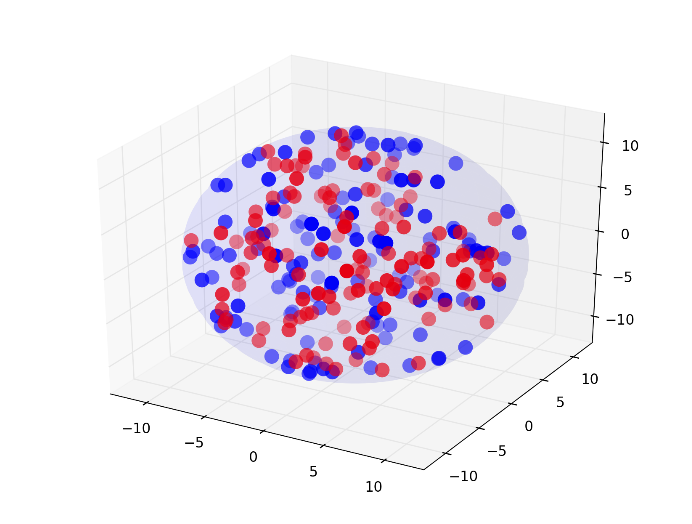
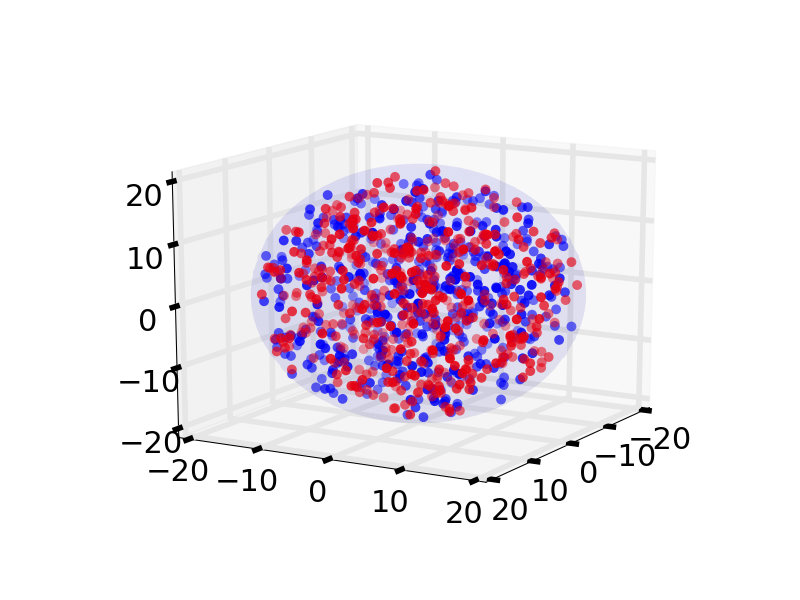
Semi-final

diff --git a/CapstoneII/Paper/KolbmanCapII.tex b/CapstoneII/Paper/KolbmanCapII.tex
@@ -27,12 +27,13 @@ Differential Cell Adhesion and Elasticity}
 \date{\today}
 
 \begin{abstract} \noindent The biophysics of cell co-cultures, i.e. a binary system of cell populations, is of great interest in many biological processes including formation of embryos, and tumor progression. 
-During these processes, different types of cells with different physical properties are mixed with each other, with important consequences for cell-cell interaction, aggregation, and migration. 
-Until recently, experiments and theoretical models of cell co-cultures have focused on two dimensional systems. Under physiological conditions, however, cells often have to  
-navigate three dimensional and confined micro environments. We will model such cell co-culture systems by extending previous two-dimensional Brownian Dynamics simulation of a binary system of interacting, 
-active, and deformable particles to a confined three-dimensional system. Our results will be compared with ongoing experiments done by our collaborators. Our results may 
-provide insights into the role of the difference in physical properties such as cell elasticity, cell-cell adhesion, and cell self-propulsion speeds of two cell types in emergent collective properties 
-such as cell aggregation and differential migration experimentally observed in co-cultures of breast cancer cells and healthy breast epithelial cells.  
+During these processes, different types of cells with different physical properties are mixed with each other, with important consequences for cell-cell interaction, aggregation, and migration. The role of the differences
+in their physical properties in their collective behavior remains poorly understood. Furthermore, until recently, experiments and theoretical models of collective cell migration 
+have focused on two dimensional systems. Under physiological conditions, however, cells often have to  
+navigate three dimensional and confined micro environments. We will model cell co-culture systems by extending previous two-dimensional Brownian Dynamics simulation of a binary system of interacting, 
+active, and deformable particles to a confined three-dimensional system. We compare our results with experiments done by our experimental collaborators. Our findings may 
+provide insights into how the differences in cells' physical properties such as elasticity, propensity for cell-cell adhesion, and self-propulsion speeds of two cell types influence 
+emergent collective properties such as cell aggregation and differential migration experimentally observed in co-cultures of breast cancer cells and healthy breast epithelial cells.  
 
 \end{abstract}
 
@@ -53,10 +54,10 @@ cell population \cite{Lee}.
 Until recently, most experiments and models of cell co-cultures have focused on two dimensional systems, with limited application to physiological conditions\cite{Jong}.
 Recently, new techniques for observing co-cultures in three dimensions have become available\cite{Alessandri}.  Accordingly, we seek to formulate a minimal
 model of co-culture cell mechanics in three dimensions by extending previous two dimensional simulations of binary systems of deformable and active colloids\cite{Butcher}.
-Using an integrated modeling and experimental approach, we aim to characterize the role of difference in physical properties such as cell stiffness, cell-cell adhesion,
+Using an integrated modeling and experimental approach, we aim to characterize the role of differences in physical properties such as cell stiffness, cell-cell adhesion,
 and self-propulsion in  aggregation and migration in co-cultures of breast cancer cells and non-cancerous cells in three dimensions.
-Furthermore, we will focus on confined systems to better recreate the physiological and experimental systems we are studying.
-From a physics perspective, we will study the interplay of cell mechanics, and statistical mechanical in cell migration in a confined binary system in three dimensions.
+Furthermore, we  focus on confined systems to better recreate the physiological and experimental systems we are studying.
+From a physics perspective, we  study the interplay of cell mechanics, and statistical mechanical in cell migration in a confined binary system in three dimensions.
 The main ingredients of the model are discussed below.\\
 
 
@@ -83,8 +84,8 @@ Recent experiments show increased migration rates of cells in three-dimensional 
 
 Ongoing experiments in the laboratories of our collaborators Dr. M. Wu and Dr. M. Ma involve observing co-cultures inside spherical capsules with diameters of the order of several hundred micro-meters 
 and containing hundreds of cells\cite{Alessandri} (See FIG. \ref{fig:capsule}). Given that confinement and finite system size can have important consequences for the statistical mechanics and collective 
-properties of the cell-culture, it will be vital to account for them in our model. The spherical capsules in the experiments we will model have an inner diameter of $50-700$ micro-meters and an outer diameter of $400-7000$ micro-meters.
-The cells are present inside the inner capsule and have a dimensions of the order of $\sim 10$ micro-meters. The region between the inner and outer diameters is occupied by a dense gel layer that the cells can not penetrate.
+properties of the cell-culture, it is be vital to account for them in our model. The spherical capsules in the experiments we will model have an inner diameter of $50-700$ micro-meters and an outer diameter of $400-7000$ micro-meters \cite{Mingming}.
+The cells are present inside the inner capsule and have a dimensions of the order of $\sim 10$ micro-meters\cite{Mingming}. The region between the inner and outer diameters is occupied by a dense gel layer that the cells can not penetrate.
 The outside of this layer is coated such that cells will not adhere to this layer upon contact. \\
 
 \begin{figure}
@@ -101,28 +102,43 @@ The outside of this layer is coated such that cells will not adhere to this laye
 \begin{figure}
   \includegraphics[width=1.0\columnwidth]{images/3dconf.png}
   \caption[3dconf]
-    {A sample configuration of a confined three dimensional co-culture system.}
+    {A sample initial configuration of a confined three dimensional co-culture system. The blue spheres represent the cancer cells, and the red spheres represent the healthy cells
+    (this color scheme is followed throughout this paper). Note that the two cell types are randomly and isotropically distributed. The two types of cells are of the same size, and the sizes are not shown
+    to scale in the figure.}
    \label{fig:3dconf}
 \end{figure}
 
-We study the collective dynamics of this system using an active Brownian Dynamics simulation. Brownian dynamics is ideal for this system as cells behave like Brownian particles: 
-their dimensions and timescale of motion are much larger than that of the particles of the surrounding medium in which they are suspended and in equilibrium  their motion is diffusive. In addition
+We study the collective dynamics of this system using an active Brownian Dynamics simulation. Brownian dynamics is ideal for this system as cells behave like Brownian particles: their dimensions and timescale of motion are much larger than that of the particles of the surrounding medium in which they are suspended and in equilibrium  their motion is diffusive. In addition
 our system is ``active" because cells can generate forces by consuming ATP and propel themselves. A simple model of homogeneous monolayers of such active particles consists
 of a two dimensional system of interacting colloidal particles that are also each active, i.e. self-driven \cite{FilyMarchetti,RednerBaskaran}. 
-Such models have been previously used to study swarming  behavior \cite{Vicsek} in birds, inspections and fish. Our group has recently combined this approach with cell 
-mechanics and applied it to a binary population of cells, to study the collective mechanics and dynamics in cell co-cultures characterized by a difference in cell stiffness.
+Such models have been previously used to study swarming  behavior \cite{Vicsek} in birds, insects, and fish.
+This approach  has recently been combined with cell mechanics and applied it to a binary population of cells, to study the collective mechanics and dynamics in cell co-cultures characterized by a difference in cell stiffness \cite{Butcher}.
 This study found that mechanical mismatch in co-cultures can have important consequences cell migration, and can lead to enhanced motility for more deformable cells\cite{Butcher}, 
 in agreement with the Lee and coworkers \cite{Lee}. In this project, we extend this model to a three-dimensional system, include cell-cell adhesion, and further add the presence of a 
 confining sphere to mimic the experimental set-up used by our collaborators \cite{Mingming}. 
 
-Our model co-culture is made of two sets A and B of active Brownian particles representing the cells (See FIG. \ref{fig:capsule}). 
-The cells only interact with each other when they come into contact. The contact interaction between cells is of two types. First, when cells come into contact and push against each other,
-depending on their mechanical stiffness they will respond with different forces; this interaction is modeled as an elastic repulsive interaction. For the non-cancerous (stiff) cells, there further exists
-a cell-cell adhesion, modeled here as an attractive interaction at contact. The cancer (comparatively soft) cells do not have this adhesion.
+\begin{figure}
+  \begin{subfigure}{\columnwidth}
+    \includegraphics[width=1.0\columnwidth]{images/interaction.png}
+  \end{subfigure}
+  \begin{subfigure}{\columnwidth}
+    \includegraphics[width=1.0\columnwidth]{images/hertz.png}
+  \end{subfigure}
+  \caption[capsuleECM]{Schematic diagrams of the qualitative form of the two part contact interaction force for the two models. When two cells push into each other such that the separation between their centers is less than the diameter of the cells, there is a Hookean or Hertzian, elastic restoring (repulsive) force. Neighboring cells that have not pushed into each other, but are within a certain close distance of each other, may experience an adhesive force. The strengths of the forces are determined by the prefactors $F_{rep}^0$ and $F_{adh}^0$. The effective separation between cells for adhesive force to be non-zero is set by a contact distance, $\epsilon$  in the model (Not illustrated to scale).}
+  \label{fig:interaction}
+\end{figure}
+
+My model of the co-culture is made of two types of active Brownian particles representing the cancerous and healthy cells (See FIG. \ref{fig:capsule}). 
+The cells only interact with each other when they come into contact.
+The contact interaction between cells is of two types.
+First, when cells come into contact and push against each other, depending on their mechanical stiffness they will respond with different forces; this interaction is modeled as an elastic repulsive interaction.
+For the non-cancerous (stiff) cells, there further exists a cell-cell adhesion, modeled here as an attractive interaction at contact.
+The cancer cells do not have this adhesion.
 The strengths of the interactions are tuned to mimic physiological conditions, where we use a stiffness of $2000 Pa$ for the stiff  (healthy) cells and $667 Pa$ for the soft (cancer) cells \cite{Lee},
-and a diffusion constant of $\sim 1.8 \mu m^2 /min$ for both cell types (private communication with Dr. Wu).  Both cell types have the same diameter  $\sigma = 15$ $\mu m$.
-The cancer cells are assumed to be up to ten times softer than their non-cancerous counterparts.  The particle positions evolve according to the overdamped 
-Langevin equations \cite{Lemons,RednerBaskaran,FilyMarchetti,Butcher}: 
+and a diffusion constant of $\sim 1.8 \mu m^2 /min$ for both cell types \cite{Mingming}.
+Both cell types have the same diameter  $\sigma = 15$ $\mu m$.
+The cancer cells are approximated to be up to ten times softer than their non-cancerous counterparts.
+The particle positions evolve according to the overdamped Langevin equations \cite{Lemons,RednerBaskaran,FilyMarchetti,Butcher}: 
 
 \begin{equation}
   \bm{\dot{\bm{r}_i}} = \frac{1}{\gamma}\bm{F}_{int}(\bm{r}_i) + v_p\hat{\bm{v}}_i+\sqrt{2D}\eta_i^T
@@ -208,18 +224,8 @@ The magnitude of the adhesive force is given by:
   \label{eq:fadh}
 \end{equation}
 
-The forces act along the separation between the center of the two particles. The force amplitudes  $F^0_{rep}$ and $F^0_{adh}$ depend on the species of the particle.  The parameter $\epsilon$ is the phenomenological lengthscale over which the non-cancerous cells show cell-cell adhesion. 
+The forces act along the separation between the center of the two particles. The force amplitudes  $F^0_{rep}$ and $F^0_{adh}$ depend on the species of the particle.  The parameter $\epsilon$ is the phenomenological lengthscale over which the non-cancerous cells show cell-cell adhesion (See FIG. \ref{fig:interaction}). 
 
-\begin{figure}
-  \begin{subfigure}{\columnwidth}
-    \includegraphics[width=1.0\columnwidth]{images/interaction.png}
-  \end{subfigure}
-  \begin{subfigure}{\columnwidth}
-    \includegraphics[width=1.0\columnwidth]{images/hertz.png}
-  \end{subfigure}
-  \caption[capsuleECM]{Schematics of the general form of the two part interaction force for the two models. For small separations within the diameter of the cells, there is a hookean or Hertzian, repulsive force. Neighboring cells outside, but near a given cell, experience an adhesive force. The strengths of the forces are determined by the prefactors $F_{rep}^0$ and $F_{adh}^0$ and the effective separation of the adhesive force by the contact distance, $\epsilon$  (Not illustrated to scale).}
-  \label{fig:interaction}
-\end{figure}
 
 % Physical system (Boundaries, packing fraction) %
 
@@ -235,13 +241,25 @@ See FIG. \ref{fig:3dconf} for a sample three dimensional system.
 % Technical stuff %
 \section{Numerical Methods}
 
+\begin{figure}
+  \includegraphics[width=\columnwidth]{images/compare.png}
+  \caption{Comparison between naive and spatial hashing collision methods}
+  \label{fig:compare}
+\end{figure}
+
 The dynamics simulations are computed in Julia, a high-performance, dynamic 
 programming language for scientific computing \cite{Bezanson1,Bezanson2}.
 The code was documented and published using Sphinx \cite{RTD} and the source released on Github \cite{github}.
 
-Spatial cell hashing and neighbor checking was used for broad phase collision detection to linearize run times 
-as a function of the number of total particles. The simulations use a forward 
-Euler method to integrate with time steps between $10^{-4}\tau$ and $10^{-6}\tau$.
+The simulations use a forward Euler method to integrate with time steps between $10^{-4}\tau$ and $10^{-6}\tau$.
+The model is heavily dependent on near-range interactions with other particles in a many body system.
+To reduce run time, spatial hashing techniques for collision detection were used \cite{Muller}.
+This works by dividing the simulation space into discrete blocks, iterating over all blocks in the system, and considering partcle pair interactions only between the current and neighboring blocks.
+The result was a model that scaled linearly with the number of particles rather than with the number of particles squared in a naive collision model (See FIG. \ref{fig:compare}).
+
+Many identical simulations were run ten or more times to create ensemble averages for the quantities I was measuring.
+To reduce runtime when computing many simulations for desired parameter set, simulations were performed in parallel on a computing grid with each CPU core handling one simulation at a time.
+
 
 One common measurement made by experementalists on tracking data of cells is the mean squared displacement (MSD).
 It is given as:
@@ -262,9 +280,11 @@ For results here, it was chosen that any point $1.1\sigma$ from another point wa
 
 \section{Results}
 
+
 \subsection{Brownian Diffusion}
 According to Einstein's theory of brownian motion, it is expected that the mean
-squared displacement of a particle undergoing Brownian motion in three dimensions should evolve proportional to the time, with a proportionality constant $6 D$, where $D$ is the diffusion constant. In our non-dimensionalized model, this constant pre-actor should be $6$. We used this fact to confirm that the dynamics of the simulation were working properly. To test this, all interaction and propulsive forces were turned off and the system was evolved only under brownian forces. Ten identical simulations were run and averaged to produce FIG. \ref{fig:brownianMSD}. The slope is very nearly the expected value and will be exact for larger numbers of trial runs and larger system sizes.
+squared displacement of a particle undergoing Brownian motion in three dimensions should evolve proportional to the time, with a proportionality constant $6 D$, where $D$ is the diffusion constant. In our non-dimensionalized model, this constant pre-actor should be $6$. We used this fact to confirm that the dynamics of the simulation were working properly. To test this, all interaction and propulsive forces were turned off and the system was evolved only under brownian forces. Ten identical simulations were run and averaged to produce FIG. \ref{fig:brownianMSD}. The slope is very nearly the expected value and is expected to be exact for larger numbers of trial runs and larger system sizes.
+
 
 \begin{figure}
   \includegraphics[width=\columnwidth]{images/brownianMSD.png}
@@ -284,69 +304,66 @@ and non-cancerous breast epithelial cells inside the spherical microfluidic caps
 while the cancerous cells collect near the boundary and form an outer shell. By using parameters similar to those 
 in the experiments, we are able to qualitatively replicate this using our model.
 
-\begin{figure*}
-  \centering
-  \begin{subfigure}[t]{1.0\textwidth}
-    \includegraphics[width=\textwidth]{images/experimental.png}
-  \end{subfigure}
-  \begin{subfigure}[t]{1.0\textwidth}
-    \includegraphics[width=\textwidth]{images/separation.png}
-  \end{subfigure}
-  \caption[separation]{Time evolution of the co-culture model of the cancer cells (Blue) and the healthy cells (Red) over a timescale of the order of seconds. The system evolves (left to right) from an initial, random state (left) towards a segregated state (right).}
-   \label{fig:separation}
-\end{figure*}
 
 We start with an initial random and uniform distribution of the two cells types consisting of  
 equal number of cells for each type. As described before, the cancer cells experience an elastic
-repulsion that is ten times weaker than that experience by the non-cancerous cells. Furthermore, 
-cancer cells experience a self-propulsive force but no cell-cell adhesion, while non-cancerous cells
-experience cell-cell adhesion, but no self-propulsion. There is no cell-cell adhesion between cancer cells
-and non-cancerous cells.  Under these conditions, we allow the system to evolve (See
-FIG. \ref{fig:separation}). The system separates from its initial (random) state
-so that the cancerous cells move toward the boundary. We have only run our system for an experimental run time
-corresponding to a few seconds. To be able to compare with the experiments more accurately, we will need to study evolution
-of our system over an experimental timescale of the order of at least a week. This is currently underway. 
+repulsion that is ten times weaker than that experience by the non-cancerous cells.
+Furthermore, cancer cells experience a self-propulsive force but no cell-cell adhesion, while non-cancerous cells experience cell-cell adhesion, but no self-propulsion.
+There is no cell-cell adhesion between cancer cells and non-cancerous cells.
+Under these conditions, we allow the system to evolve (See FIG. \ref{fig:separation}).
+The system separates from its initial (random) state so that the cancerous cells move toward the boundary.
 
 \begin{figure}
-  \includegraphics[width=\columnwidth]{images/cocultureMSD.png}
+  \includegraphics[width=\columnwidth]{images/cocultureMSD.png}[h!]
   \caption[cocultureMSD]
     {The MSD for a co-culture, cancerous-healthy cell system. The cancerous cells
     are observed to be much more motile than the healthy cells, and their MSD has a larger slope. The time is expressed in units of $\tau$, and MSD is expressed
-    in units of $\sigma^2$ defined earlier. This result is
+    in units of $\sigma^2$ defined earlier. The parameters for the stiffness and diffusivity used are obtained from experiments as described in the text.  This result is
     similar to those of the two dimensional case\cite{Butcher}.}
   \label{fig:cocultureMSD}
 \end{figure}
 
+\begin{figure}
+  \includegraphics[width=1.0\columnwidth]{images/phi_both.png}
+  \caption{The pacing fraction at two extremes: $\phi=0.4$ (top) and $\phi=0.95$ (bottom).}
+  \label{fig:phi}
+\end{figure}
+
 \subsection{Differential Migration}
-One case that was investigated closely in the two-dimensional model was a co-culture system with healthy, adhesive cells, and cancerous, propulsive cells with an elasticity 
-difference of one order. As in the two-dimensional case, we find that in the three dimensional co-culture, the cancerous cells migrated faster than the healthy cells. This is represented by the larger
-slope of the mean squared displacement (MSD) vs time, for the cancer cells compared to the healthy cells. (See FIG. \ref{fig:cocultureMSD}).
+One case that was investigated closely in the two-dimensional model was a co-culture system with healthy, adhesive cells, and cancerous, propulsive cells with an elasticity difference of one order.
+As in the two-dimensional case, it was found that in the three dimensional co-culture, the cancerous cells migrated faster than the healthy cells.
+This is represented by the larger slope of the mean squared displacement vs time (ballistic motion) for the cancer cells compared to the healthy cells (diffusive motion). See FIG. \ref{fig:cocultureMSD}.
 
 \subsection{Towards constructing a phase diagram}
 
 Due to the difficulty of the simulation, a system comparable to the systems produced in the lab consisting of millions of cells is not feasible.
-Instead, a much smaller system (512-1024 cells) was needed to produce results in a reasonable fashion. I ran the model under similar conditions for different quantities of cells to 
-determine what considerations to make when comparing my model to experimental results from our experimental collaborators. Our final goal is to construct a multi-dimensional phase diagram. 
-A full phase diagram is outside the scope of this report for lack of time. Below I have described my observations of the dependence of the emergent properties of the system on important constitutive 
-physical properties of the cells that can form the axes of this digram.
+Instead, a much smaller system (512-1024 cells) was needed to produce results in a reasonable fashion. I ran the model under similar conditions for different quantities of cells to determine what considerations to make when comparing my model to experimental results from our experimental collaborators.
+One goal of this project is to construct a multi-dimensional phase diagram with respect to several parameters.
+A full phase diagram is outside the scope of this report for lack of time, though I have collected and analyized cases with independantly varying parameters.
+Below I have described my observations of the dependence of the emergent properties of the system on important constitutive  physical properties of the cells that can form the axes of the planned diagram.
 
 \subsubsection{Packing Fraction}
 
 The critical packing fraction for solid spheres where the system becomes jammed is $0.74$.
 Given that the model consists of deformable spheres as opposed to solid spheres, it was expected that the reach a critical packing fraction above $0.74$ and show significantly reduced motility in both species.
+The model was run for several packing fractions between $0.4$ and $0.95$ by keeping the number of particles fixed and altering the size of the system appropriatly.
+The extremely high packing fraction of $0.95$ was expected to be jammed and show very little migration of any cells.
+However, results show that there is little effect on the behavior of the system at such high ratios (FIG. \ref{fig:phi}).
+When considering snapshots of the system (FIG. \ref{fig:contact}), it can be seen that this is due to the clumping of the cells.
+The clumping of the cells indicates that there is considerable overlap of cells resulting in a lower effective packing fraction that allows cells the ability to migrate.
 
-FIG. \ref{fig:phi}
 
-\begin{figure}[h!!!!!!!!!!!!!!!!!!!!!!!!!!!!!!!!!!!!!!] % :(
+
+\begin{figure*}
   \begin{subfigure}{\columnwidth}
-    \includegraphics[width=1.0\columnwidth]{images/phi04.png}
+    \includegraphics[width=1.0\columnwidth]{images/configs_40.png}
   \end{subfigure}
   \begin{subfigure}{\columnwidth}
-    \includegraphics[width=1.0\columnwidth]{images/phi95.png}
+    \includegraphics[width=1.0\columnwidth]{images/configs_95.png}
   \end{subfigure}
-  \caption{The pacing fraction at two extremes: $\phi=0.4$ (top) and $\phi=0.95$ (bottom).}
-  \label{fig:phi}
-\end{figure}
+  \caption{The system configuration for two packing fraction extremes, $\phi=0.4$ and $\phi=0.95$}
+  \label{fig:contact}
+\end{figure*}
 
 \subsubsection{Stiffness}
 
@@ -357,7 +374,7 @@ The model was run for several different ratios of stiffness between the two cell
 
 There are two parameters that affect the adhesive force of the healthy cells in the model.
 The first is the magnitude of the force.
-This is the prefactor that scales the force similiar to the repulive force.
+This is the prefactor that scales the force similar to the repulsive force.
 The second is the contact distance of the adhesive force, $\epsilon$.
 This is how far the bottom of the well is from the edge of the cell (See FIG. \ref{fig:interaction}).
 
@@ -378,30 +395,62 @@ This resulted in many more clusters being formed and a decrease in the motility 
   \label{fig:contact}
 \end{figure}
 
+\begin{figure}
+  \includegraphics[width=1.0\columnwidth]{images/avg_clusters.png}
+  \caption{The average number of clusters as a function of time for two extremes of the effective adhesive contact distance, $\epsilon$.}
+  \label{fig:clusters}
+\end{figure}
+
+
+
 
 \subsubsection{Self-propulsion speed}
 
-FIG. \ref{fig:prop}
+The dependence of the motility on the self-propulsion of the cancerous cells in the model was tested by varying the Peclet number.
+For a low Peclet number, $Pe=1$, the cancerous cells showed only diffuse behavior and did not seperate from the diffusive healthy cells (See FIG. \ref{fig:prop}).
+For a high Peclet number, $Pe=1000$, the cancerous cells were observed to be more motile than the healthy cells.
+These results indicate the seperation behavior is dependent on the activity of the cancerous cells.
 
 \begin{figure}
-  \begin{subfigure}{\columnwidth}
-    \includegraphics[width=1.0\columnwidth]{images/pe1.png}
-  \end{subfigure}
-  \begin{subfigure}{\columnwidth}
-    \includegraphics[width=1.0\columnwidth]{images/pe1000.png}
-  \end{subfigure}
-  \caption{The MSD for two different peclet numbers ($Pe$). The top, $Pe=1$, shows that cancerous and healthy cells have similiar migratory behavior when the cancerous cells have little self propulsion. The bottom, $Pe=1000$, shows that cancer cells will be much more motile ot begin, then reach a limit (when they are constrained by the boundaries).}
+    \includegraphics[width=1.0\columnwidth]{images/pe_both.png}
+  \caption{The MSD for two different peclet numbers ($Pe$). The top, $Pe=1$, shows that cancerous and healthy cells have similar migratory behavior when the cancerous cells have little self propulsion. The bottom, $Pe=1000$, shows that cancer cells are much more motile ot beginsimilar, then reach a limit (when they are constrained by the boundaries).}
   \label{fig:prop}
 \end{figure}
 
+
+
 \subsubsection{Physiological Parameters}
 
+\begin{figure*}
+  \centering
+  \includegraphics[width=\textwidth]{images/separation.png}
+  \caption[separation]{Time evolution of the co-culture model of the cancer cells (Blue) and the healthy cells (Red) over a timescale of the order of seconds. The system evolves (left to right) from an initial, random state (left) towards a segregated state (right).}
+   \label{fig:separation}
+\end{figure*}
+
+The last set of parameters I have analyzed the system for is the physiological parameters.
+These are the parameters mentioned prior: Cell stiffnesses of $2000Pa$ and $667Pa$ for healthy and cancerous cells, respectively (or $1546$ and $510.6$ in dimensionless units), cancerous cell propulsion of $12.5$ in dimensionless units, healthy cell adhesion of $1500$ in dimensionless units with an effective range of $0.2\sigma$, and a packing fraction of $0.7$.
+
+The results compare closely with the behavior obsereved by collaborators in the lab.
+The MSD (FIG. \ref{fig:phys} reveals that the cancerous cells are more active than the healthy cells in the model, similiar to the behavior reported by the Wirtz group \cite{Lee}.
+The segregation of the two systems also agrees with the experimental findings.
+When cancerous cells and healthy cells are mixed in a microfluidic droplet, the cancerous cells are observed to migrate outwards while the healthy cells aggregate in the center \cite{Lu}.
+The model produced qualitatively similiar results with identical behavior (See FIG. \ref{fig:separation}).
+
+
+\begin{figure}
+  \includegraphics[width=0.9\columnwidth]{images/physmsd.png}
+  \caption{Physiological Parameters}
+   \label{fig:phys}
+\end{figure}
 
 
 \section{Conclusions}
-We have constructed a simple proof-of-concept cell co-culture model to test the hypothesis that differences in physical properties of cells in close proximity in a co-culture can influence emergent collective properties such as migration
-and segregation.
-Our preliminary results indicate that this is indeed true.
+Over the course of capstone, I have created a rubust, numerical model for co-culture colloids.
+I studied the behavior of the model by testing many of its parameters and analyzing the behavior with regards to the migration and segragation of the different cell species.
+I also applied parameters relevent to the physical case of healthy and cancerous breast epithelial cells.
+I began to compare the qualitative behavior of the model to experimental results and hope to soon make more absolute comparisons to quantitative measurements from our collaborators.
+I began to also look at more complex variations of the parameters and the behavior they produce in the phase plane, though a more thorough analysis will have to wait for future work.
 
 \begin{figure}
   \includegraphics[width=0.9\columnwidth]{images/Fig2.png}
@@ -413,11 +462,23 @@ Our preliminary results indicate that this is indeed true.
 
 \section{Future Work}
 
+The qualitative behavior of the model has been compared to and found to match well with results from laboratory experiments.
+However, a more direct comparison with quantitative results (like MSD) from the lab will be important for tuning the model to give physically accurate results.
+This will hopefully be achieved through further, close collaboration with experimentalists and their data.
+
+An investigation of the multi-dimensional parameter space was begun toward the end of the project, though it still needs to be examined more closely.
+A detailed investigation of the parameter space of the model will prove to be difficult given the quantity of data needing to be produced for it.
+
+Aside from further analysis of the model, there are also other components that may be added.
+The model presented here was constructed using the minimal number of components necessary to produce qualitative behavior.
+To make the model more rigorous, there are a couple suggested additions that might be made below:
+
 \subsection{Interaction with the Extra Cellular Matrix}
 The extracellular matrix (ECM) is a structural network of fibers that surrounds the cells, and interacts with the contained cells \cite{Alberts}.
 Most healthy cells adhere to the ECM and move along it in a manner mimicking one-dimensional motion \cite{Cukierman}.
 Migration speed of cells in this manner has been observed to be significantly higher than on two dimensional surfaces \cite{Doyle}.
-Considering the ECM and the interaction of cells with the ECM will thus be very important in the development of our three-dimensional model.
+Considering the ECM and the interaction of cells with the ECM will thus be very important in the development of a complete model.
+An ECM interaction with the cells could be modeled in the form of a disordered potential, or strands of static, adhesive particles.
 
 \subsection{Mitosis}
 
@@ -426,8 +487,7 @@ That time is sufficient enough for cell to divide several times and could have i
 The model could be made more sophisticated by accounting for cell division by duplicating cells after a specified period.
 
 \begin{acknowledgments}
-Many thanks to: Dr. Moumita Das for her mentorship and inputs, Julian Butcher for useful discussions, Drs. Minglin Ma and Mingming Wu for their collaboration and discussions, 
-and the Capstone Committee, especially Dr. Linda Barton, for their guidance and arranging of Capstone Program.
+Many thanks to: Dr. Moumita Das for her mentorship and inputs, Julian Butcher for useful discussions, Drs. Minglin Ma and Mingming Wu for their collaboration and discussions, research computing at RIT for computational resources, and the Capstone Committee, especially Dr. Linda Barton, for their guidance and arranging of Capstone Program.
 \end{acknowledgments}
 
 \vspace{0.6in}
